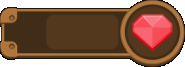
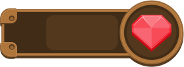
losing life added

diff --git a/src/components/Stage.js b/src/components/Stage.js
@@ -20,7 +20,7 @@ class Stage extends React.Component {
         super(props);
         this.keyInterval = [];
 
-        this.gameLoop = function () {};
+        this.gameLoop = null;
         this.side = {
             None :0,
             Left : 1,
@@ -33,9 +33,41 @@ class Stage extends React.Component {
         props.stageLoad(props.params.stageId);
     }
 
+    startGame = () => {
+        this.gameLoop = setInterval(() => {
+            this.checkBorderCollision();
+            this.checkPaddleCollision();
+            this.checkCratesCollision();
+            this.props.loopTick();
+        }, 10);
+    };
+
+    stopGame = () => {
+        clearInterval(this.gameLoop);
+        this.gameLoop = null;
+        this.props.decreaseLife();
+        if (this.props.lifes === 0) {
+            this.gameOver();
+        } else {
+            setTimeout(()=>{
+                this.props.resetBall();
+            },500);
+        }
+    };
+
+    gameOver = () => {
+        console.log('GAME OVER!');
+    }
+
     keyHandler = (data, event) => {
 
         switch (event.keyCode) {
+            case KEYCODES.SPACE: {
+                if (!this.gameLoop && this.props.lifes > 0) {
+                    this.startGame();
+                }
+                break;
+            }
             case KEYCODES.UP: {
                 if (this.keyInterval[KEYCODES.RIGHT]) {
                     return;
@@ -105,7 +137,7 @@ class Stage extends React.Component {
     checkBorderCollision = () => {
         if (this.props.ball.position.left + this.props.ball.dirX <= this.props.area.minX) {
             this.props.changeDirX();
-            console.log('Live Lost');
+            this.stopGame();
         }
         if (this.props.ball.position.top + this.props.ball.dirY <= this.props.area.minY) {
             this.props.changeDirY();
@@ -266,12 +298,12 @@ class Stage extends React.Component {
     }
 
     componentDidMount(){
-        this.gameLoop = setInterval(() => {
-            this.checkBorderCollision();
-            this.checkPaddleCollision();
-            this.checkCratesCollision();
-            this.props.loopTick();
-        }, 10);
+        // this.gameLoop = setInterval(() => {
+        //     this.checkBorderCollision();
+        //     this.checkPaddleCollision();
+        //     this.checkCratesCollision();
+        //     this.props.loopTick();
+        // }, 10);
     }
 
     componentWillUnmount() {
@@ -324,9 +356,11 @@ const mapDispatchToProps = (dispatch) => {
         spellCasting: () => dispatch(actions.spellCasting()),
         castStop: () => dispatch(actions.castStop()),
         loopTick: () => dispatch(actions.loopTick()),
+        resetBall: () => dispatch(actions.resetBall()),
         changeDirX: () => dispatch(actions.changeDirX()),
         changeDirXWithParam: (param) => dispatch(actions.changeDirXWithParam(param)),
         changeDirY: () => dispatch(actions.changeDirY()),
+        decreaseLife: () => dispatch(actions.decreaseLife()),
         changeDirYWithParam: (param) => dispatch(actions.changeDirYWithParam(param)),
         decreaseCrateValue: (id) => dispatch(actions.decreaseCrateValue(id)),
         hideCrate: (id) => dispatch(actions.hideCrate(id)),

diff --git a/src/reducers/gameReducer.js b/src/reducers/gameReducer.js
@@ -159,6 +159,26 @@ const gameReducer = (state = initialState, action) => {
                 points: state.points + action.payload.points
             };
 
+        case ACTIONS.DECREASE_LIFE:
+            return {...state,
+                lifes: state.lifes - 1
+            };
+
+        case ACTIONS.RESET_BALL:
+            return {...state,
+                ball: {
+                    radius: 8,
+                    position: {
+                        top: 205,
+                        bottom: 221,
+                        left: 120,
+                        right: 136
+                    },
+                    dirX: 3,
+                    dirY: 3
+                }
+            };
+
         default:
             return state;
     }

diff --git a/src/constants/actions.js b/src/constants/actions.js
@@ -8,11 +8,13 @@ const ACTIONS = {
     SPELL_CASTING: Symbol('SPELL_CASTING'),
     CAST_STOP: Symbol('CAST_STOP'),
     LOOP_TICK: Symbol('LOOP_TICK'),
+    RESET_BALL: Symbol('CHANGE_DIR_X'),
     CHANGE_DIR_X: Symbol('CHANGE_DIR_X'),
     CHANGE_DIR_X_WITH_PARAM: Symbol('CHANGE_DIR_X_WITH_PARAM'),
     CHANGE_DIR_Y: Symbol('CHANGE_DIR_Y'),
     CHANGE_DIR_Y_WITH_PARAM: Symbol('CHANGE_DIR_Y_WITH_PARAM'),
     DECREASE_CRATE_VALUE: Symbol('DECREASE_CRATE_VALUE'),
+    DECREASE_LIFE: Symbol('DECREASE_LIFE'),
     ADD_POINTS: Symbol('ADD_POINTS'),
     HIDE_CRATE: Symbol('HIDE_CRATE')
 };

diff --git a/src/actions/stageActions.js b/src/actions/stageActions.js
@@ -160,6 +160,24 @@ export function decreaseCrateValue(id){
     };
 }
 
+export function resetBall(){
+    return{
+        type: ACTIONS.RESET_BALL,
+        meta:{
+            timestamp: Date.now()
+        }
+    };
+}
+
+export function decreaseLife(){
+    return{
+        type: ACTIONS.DECREASE_LIFE,
+        meta:{
+            timestamp: Date.now()
+        }
+    };
+}
+
 export function addPoints(points){
     return{
         type: ACTIONS.ADD_POINTS,

diff --git a/src/styles/stage.scss b/src/styles/stage.scss
@@ -40,7 +40,7 @@
     position: absolute;
     top: -4px;
     right: 0;
-    width: 185px;
+    width: 184px;
     height: 67px;
     background-image: url(../images/lifes.png);
 

diff --git a/src/constants/keyCodes.js b/src/constants/keyCodes.js
@@ -1,5 +1,6 @@
 
 const KEYCODES = {
+    SPACE: 32,
     UP: 38,
     RIGHT: 39,
     DOWN: 40,
